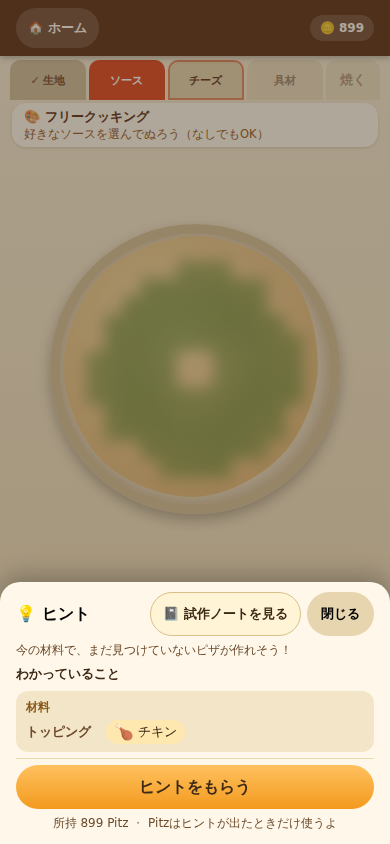
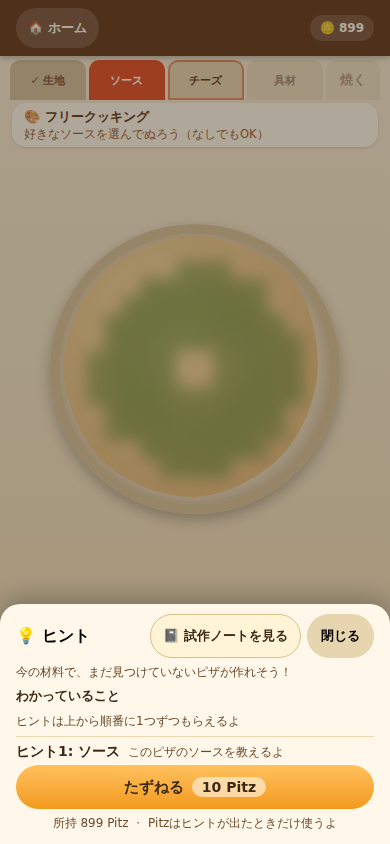
test(e2e): No.27 key-free Hint spec runs on the production-default Hint 5.0 ladder
Drops the hint5Ladder=0 override (Codex P2) and asserts data-hint-ladder=hint5 with no KEY_TOPPING rung;
screenshots regenerated.

Claude-Session: https://claude.ai/code/session_01W6LpUy26JHEXzf4xfT94A7

Changed region(s): [[0.0, 0.6777, 1.0, 0.955]]

diff --git a/e2e/discovery3-no27-pesto-pollo.spec.ts b/e2e/discovery3-no27-pesto-pollo.spec.ts
@@ -113,7 +113,6 @@ test.describe("Discovery 3.0 No.27: pesto-pollo + chicken", () => {
     await page.evaluate(([key, value]) => {
       localStorage.clear();
       localStorage.setItem(key, value);
-      localStorage.setItem("teto.dev.hint5Ladder", "0");
     }, [SAVE_KEY, JSON.stringify(SAVE)] as const);
     await page.goto("/");
     await page.waitForSelector(".app-frame");
@@ -149,6 +148,9 @@ test.describe("Discovery 3.0 No.27: pesto-pollo + chicken", () => {
     const sheet = hintSheet(page);
     await expect(sheet).toBeVisible();
     await expect(sheet).not.toHaveAttribute("data-hint-kind", "OPEN_POOL");
+    // The production-default Hint 5.0 ladder (flag NOT overridden): the key-free roles drive it, never a KEY_TOPPING rung.
+    await expect(sheet).toHaveAttribute("data-hint-ladder", "hint5");
+    await expect(sheet.locator('[data-hint5-rung="KEY_TOPPING"], [data-hint5-next="KEY_TOPPING"]')).toHaveCount(0);
     const text = await sheet.innerText();
     expect(text).not.toContain("ペストポッロ");
     expect(text).not.toMatch(/候補|距離|似て|近い|遠い|[0-9０-９]+\s*(種類|件)/);
@@ -203,7 +205,6 @@ test.describe("Discovery 3.0 No.27: pesto-pollo + chicken", () => {
     await page.evaluate(([key, value]) => {
       localStorage.clear();
       localStorage.setItem(key, value);
-      localStorage.setItem("teto.dev.hint5Ladder", "0");
     }, [SAVE_KEY, JSON.stringify(save)] as const);
     await page.goto("/");
     await page.waitForSelector(".app-frame");
